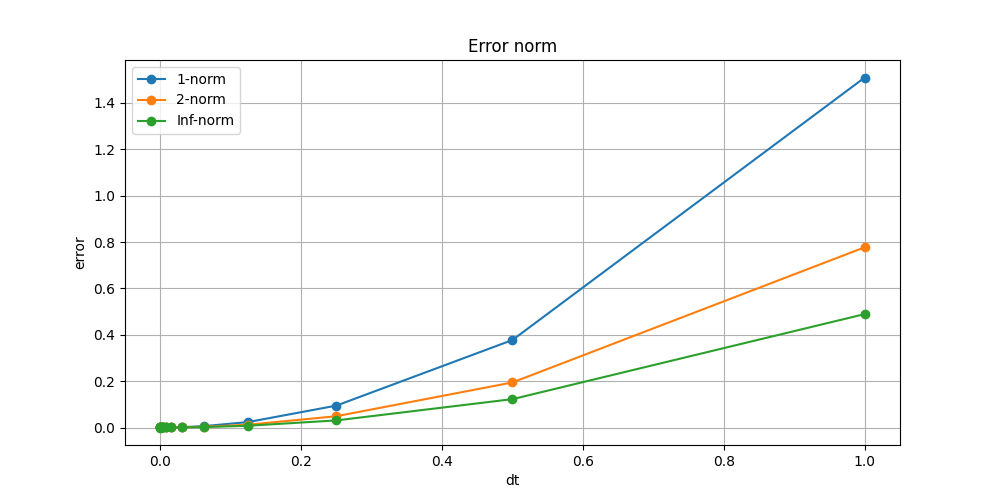
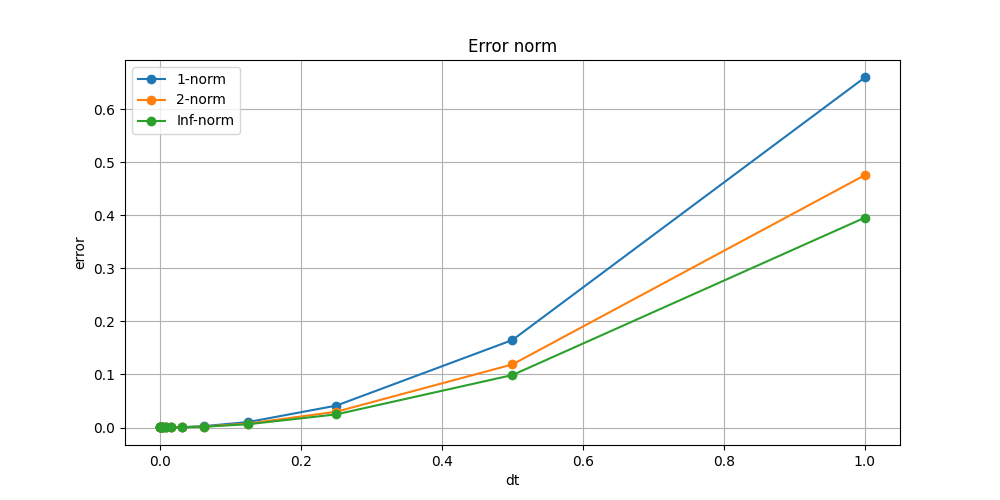
add control

diff --git a/control_test.py b/control_test.py
@@ -1,0 +1,55 @@
+# from flocking_relative_st import Flocking
+import numpy as np
+import matplotlib.pyplot as plt
+import time
+import copy
+from utils import *
+
+
+# fix the random seed
+np.random.seed(0)
+n_agents=2
+nx_system=4
+dt=0.05
+
+valid_init=False
+while not valid_init:
+    x_init=init(n_agents,nx_system, type='random')*5
+    # check if the initial condition is valid
+    valid_init=True
+    for i in range(n_agents):
+        for j in range(i+1,n_agents):
+            if np.linalg.norm(x_init[i,:2]-x_init[j,:2])<0.1:
+                valid_init=False
+                break
+
+
+iterations=50
+x=copy.deepcopy(x_init)
+for i in range(iterations):
+    # calculate the input for control
+    diff = x.reshape((n_agents, 1, nx_system)) - x.reshape(
+                (1, n_agents, nx_system))
+    r2 = np.multiply(diff[:, :, 0], diff[:, :, 0]) + np.multiply(diff[:, :, 1],diff[:, :, 1])
+
+    u=controller_centralized(diff, r2)
+    # upate the state
+    x=numerical_solution_state1(x, u, dt)
+    if (i+1)%10==0:
+        # visualize the end station
+        plt.plot(x[:,0],x[:,1],'o',label=f'at iteration {i}')
+        # add quiver
+        plt.quiver(x[:,0],x[:,1],x[:,2],x[:,3],color='b')
+
+# visualize the initial condition
+plt.plot(x_init[:,0],x_init[:,1],'o',label='initial')
+# add quiver
+plt.quiver(x_init[:,0],x_init[:,1],x_init[:,2],x_init[:,3],color='r',label='initial velocity')
+
+
+plt.legend()
+plt.grid()
+plt.xlabel('x')
+plt.ylabel('y')
+plt.savefig('./flocking.png')
+

diff --git a/utils.py b/utils.py
@@ -54,9 +54,8 @@ def potential_grad(pos_diff, r2):
     """
     r2_2 = np.multiply(r2, r2)
     # r2_2=np.nan_to_num(r2_2,nan=np.Inf)
-    grad = -1.0 * np.divide(pos_diff, r2_2
-                            ) + 1 * np.divide(pos_diff, r2)
-    grad[r2 > 1.0] = 0
+    grad = -1.0 * np.divide(pos_diff, r2_2) + 1 * np.divide(pos_diff, r2)
+    # grad[r2 > 100.0] = 0
     return grad*2.0
 
 def controller_centralized(diff, r2 ):
@@ -66,10 +65,10 @@ def controller_centralized(diff, r2 ):
     """
     n_agents = diff.shape[0]
     nx_system = diff.shape[2]
-    # TODO use the helper quantities here more?
-    potentials = np.dstack((diff, potential_grad(
-        diff[:, :, 0], r2), potential_grad(diff[:, :, 1], r2)))
-    potentials = np.nan_to_num(potentials, nan=0.0)  # fill nan with 0
+    # self dist is not considered
+    np.fill_diagonal(r2, np.Inf)
+    potentials = np.dstack((diff, potential_grad(diff[:, :, 0], r2), potential_grad(diff[:, :, 1], r2)))
+    # potentials = np.nan_to_num(potentials, nan=0.0)  # fill nan with 0
 
 
     p_sum = np.sum(potentials, axis=1).reshape((n_agents, nx_system + 2))

diff --git a/hw2.py b/hw2.py
@@ -118,7 +118,7 @@ def order_of_accuracy_test(r,dt,iterations=8, type='base'):
 
 # fix the random seed
 np.random.seed(0)
-n_agents=2
+n_agents=1
 nx_system=4
 
 # compare the base initialization condition. the result should be a parabola
@@ -131,4 +131,6 @@ x=init(n_agents,nx_system, type='random')
 u=np.random.rand(n_agents,2)
 compare_solutions(x, u, 'random_initialization')
 
+# order of accuracy test with 14 iterations
 order_of_accuracy_test(2, 1.0, 14,'random')
+
